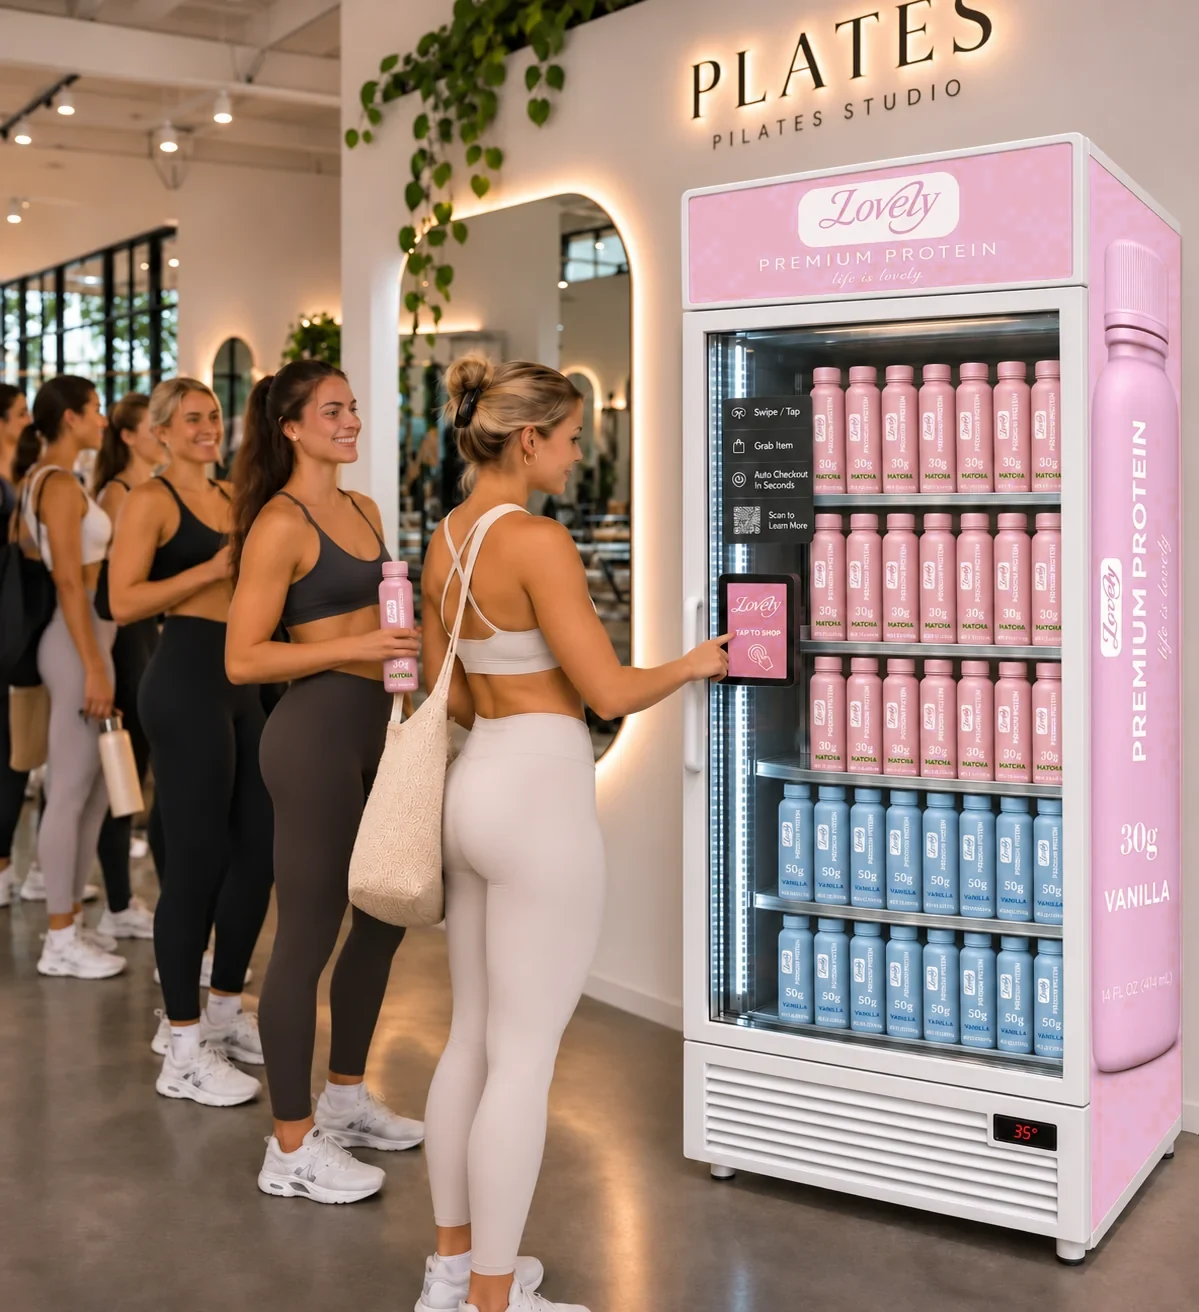
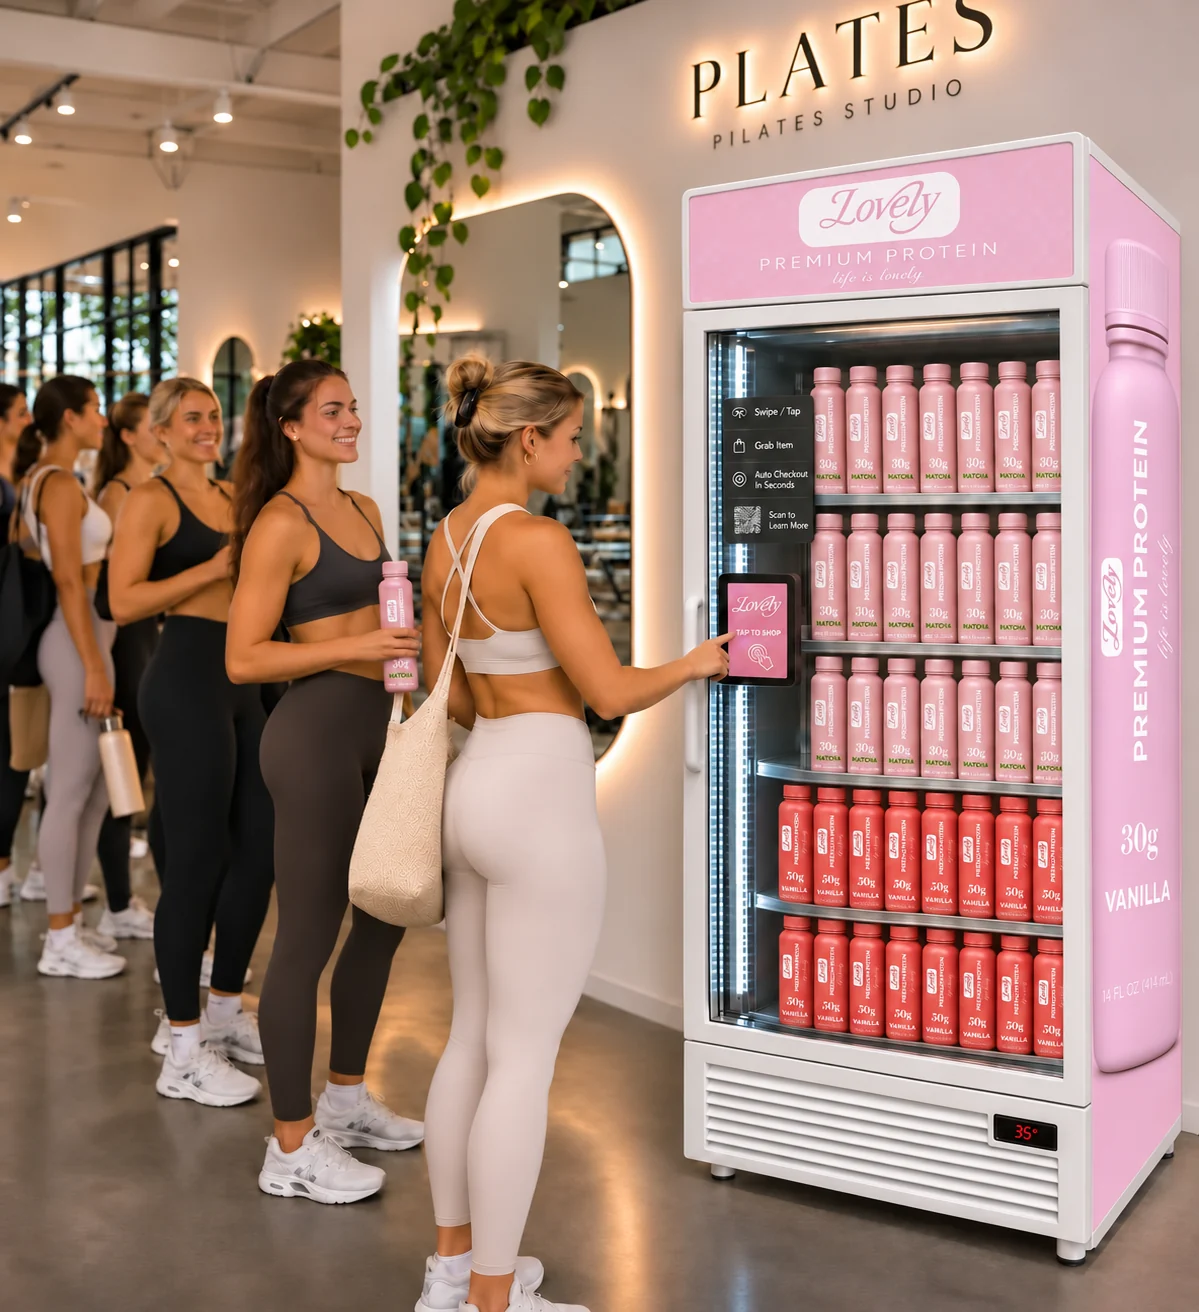
New Pilates studio fridge photo everywhere (coral 50g on the bottom shelves)
Claude-Session: https://claude.ai/code/session_01AzpPYfJ2iNTin5mbwrihoY

diff --git a/index.html b/index.html
@@ -1265,7 +1265,7 @@ footer.site h2, footer.site h3, footer.site b, footer.site h2 .swl span { color:
   <div class="pass-grid">
     <figure class="pass-shot phone"><img src="img/shot_pass.webp" alt="The Lovely Pass on a phone: a member QR code that refreshes every 30 seconds" width="540" height="760" loading="lazy"><figcaption>Your pass</figcaption></figure>
     <figure class="pass-shot phone"><img src="img/shot_map.webp" alt="The Find a Lovely map on a phone, with Lovely pins around Utah County" width="540" height="760" loading="lazy"><figcaption>Every fridge on a map</figcaption></figure>
-    <figure class="pass-shot wide"><img src="img/fridge_studio.webp?v=7" srcset="img/fridge_studio_sm.webp?v=7 720w, img/fridge_studio.webp?v=7 1199w" sizes="(max-width: 900px) 92vw, 40vw" alt="Women line up after Pilates class at a pink and white Lovely Premium Protein fridge stocked with pink 30g Matcha and light-blue 50g Vanilla bottles; one taps the screen to shop" width="1199" height="1312" loading="lazy"><figcaption>Tap, open, grab</figcaption></figure>
+    <figure class="pass-shot wide"><img src="img/fridge_studio.webp?v=8" srcset="img/fridge_studio_sm.webp?v=8 720w, img/fridge_studio.webp?v=8 1199w" sizes="(max-width: 900px) 92vw, 40vw" alt="Women line up after Pilates class at a pink and white Lovely Premium Protein fridge stocked with pink 30g Matcha and light-blue 50g Vanilla bottles; one taps the screen to shop" width="1199" height="1312" loading="lazy"><figcaption>Tap, open, grab</figcaption></figure>
   </div>
   <ol class="psteps"><li><b>1</b><h3>Join <span class="swl"><span>Lovely</span></span> Pass</h3><p>$19 a month, 5 fridge shakes included.</p></li><li><b>2</b><h3>Box at home</h3><p>Skip, swap or pause anytime.</p></li><li><b>3</b><h3>Grab at the fridge</h3><p>Scan, the door opens, grab a shake.</p></li><li><b>4</b><h3>Earn a free <span class="swl"><span>Lovely</span></span></h3><p>50 points is a free <span class="swl"><span>Lovely</span></span>.</p></li></ol>
   <div class="ctas" style="margin-top:22px"><button type="button" class="btn" data-pass>Get my <span class="swl"><span>Lovely</span></span> Pass</button><a class="btn alt" href="faq.html">How it works</a></div>
@@ -1307,7 +1307,7 @@ footer.site h2, footer.site h3, footer.site b, footer.site h2 .swl span { color:
 </div></section>
 <section class="mach-sec" id="machines" aria-labelledby="h-machines"><div class="wrap mach-top">
   <div><span class="soon">Coming after launch</span><h2 id="h-machines" class="h1"><span class="swl"><span>Lovely</span></span> fridges</h2><p class="lead">Smart fridges in studios, gyms and campus rec centers. Tap your <a href="#lovelypass"><span class="swl"><span>Lovely</span></span> Pass</a>, grab a cold shake.</p></div>
-  <img class="mach-photo" src="img/fridge_studio.webp?v=7" srcset="img/fridge_studio_sm.webp?v=7 720w, img/fridge_studio.webp?v=7 1199w" sizes="(max-width: 760px) 92vw, 45vw" alt="A pink and white Lovely Premium Protein fridge in a Pilates studio, with members lined up to tap and grab a shake" width="1199" height="1312" loading="lazy">
+  <img class="mach-photo" src="img/fridge_studio.webp?v=8" srcset="img/fridge_studio_sm.webp?v=8 720w, img/fridge_studio.webp?v=8 1199w" sizes="(max-width: 760px) 92vw, 45vw" alt="A pink and white Lovely Premium Protein fridge in a Pilates studio, with members lined up to tap and grab a shake" width="1199" height="1312" loading="lazy">
 </div></section>
 <section style="padding-top:10px" id="find" class="find-sec"><div class="wrap">
 <link rel="stylesheet" href="vendor/maplibre-gl.css">
@@ -1316,7 +1316,7 @@ footer.site h2, footer.site h3, footer.site b, footer.site h2 .swl span { color:
     <div class="fhead"><h2>Find a <span class="swl"><span>Lovely</span></span></h2><p>Utah County · <span id="fcount">9</span> sample spots</p></div>
     <div class="ffilters filters" role="group" aria-label="Location type"><button type="button" class="press" aria-pressed="true" data-mf="all">All</button><button type="button" class="press" aria-pressed="false" data-mf="studio">Studios</button><button type="button" class="press" aria-pressed="false" data-mf="gym">Gyms</button><button type="button" class="press" aria-pressed="false" data-mf="hotel">Hotels</button><button type="button" class="press" aria-pressed="false" data-mf="campus">Campus</button></div>
     <button type="button" class="btn sm alt flocate" id="flocate2"><svg viewBox="0 0 24 24" width="16" height="16" aria-hidden="true"><circle cx="12" cy="12" r="4" fill="currentColor"/><path d="M12 2v3M12 19v3M2 12h3M19 12h3" stroke="currentColor" stroke-width="2" stroke-linecap="round"/><circle cx="12" cy="12" r="7.5" fill="none" stroke="currentColor" stroke-width="2"/></svg>Sort by distance from me</button>
-    <div class="flist" id="flist"><button type="button" class="mloc" data-id="provo" data-type="studio" data-q="provo 1200 towne centre blvd provo, ut 84601 pilates studio"><img src="img/loc_fridge.webp?v=7" alt="Lovely fridge in Provo" width="112" height="140" loading="lazy"><span class="mt"><b>Provo</b><span class="dist" data-venue="Pilates studio">Pilates studio</span><span class="addr">1200 Towne Centre Blvd<br>Provo, UT 84601</span></span><svg class="chev" viewBox="0 0 24 24" width="18" height="18" aria-hidden="true"><path d="m9 5 7 7-7 7" fill="none" stroke="currentColor" stroke-width="2.4" stroke-linecap="round" stroke-linejoin="round"/></svg></button><button type="button" class="mloc" data-id="orem" data-type="studio" data-q="orem 575 e university pkwy orem, ut 84097 pilates studio"><img src="img/loc_fridge.webp?v=7" alt="Lovely fridge in Orem" width="112" height="140" loading="lazy"><span class="mt"><b>Orem</b><span class="dist" data-venue="Pilates studio">Pilates studio</span><span class="addr">575 E University Pkwy<br>Orem, UT 84097</span></span><svg class="chev" viewBox="0 0 24 24" width="18" height="18" aria-hidden="true"><path d="m9 5 7 7-7 7" fill="none" stroke="currentColor" stroke-width="2.4" stroke-linecap="round" stroke-linejoin="round"/></svg></button><button type="button" class="mloc" data-id="lehi" data-type="gym" data-q="lehi 1230 e main st lehi, ut 84043 gym"><img src="img/loc_fridge.webp?v=7" alt="Lovely fridge in Lehi" width="112" height="140" loading="lazy"><span class="mt"><b>Lehi</b><span class="dist" data-venue="Gym">Gym</span><span class="addr">1230 E Main St<br>Lehi, UT 84043</span></span><svg class="chev" viewBox="0 0 24 24" width="18" height="18" aria-hidden="true"><path d="m9 5 7 7-7 7" fill="none" stroke="currentColor" stroke-width="2.4" stroke-linecap="round" stroke-linejoin="round"/></svg></button><button type="button" class="mloc" data-id="af" data-type="gym" data-q="american fork 51 e 100 n american fork, ut 84003 gym"><img src="img/loc_fridge.webp?v=7" alt="Lovely fridge in American Fork" width="112" height="140" loading="lazy"><span class="mt"><b>American Fork</b><span class="dist" data-venue="Gym">Gym</span><span class="addr">51 E 100 N<br>American Fork, UT 84003</span></span><svg class="chev" viewBox="0 0 24 24" width="18" height="18" aria-hidden="true"><path d="m9 5 7 7-7 7" fill="none" stroke="currentColor" stroke-width="2.4" stroke-linecap="round" stroke-linejoin="round"/></svg></button><button type="button" class="mloc" data-id="pg" data-type="studio" data-q="pleasant grove address coming soon pleasant grove, ut 84062 pilates studio"><img src="img/loc_fridge.webp?v=7" alt="Lovely fridge in Pleasant Grove" width="112" height="140" loading="lazy"><span class="mt"><b>Pleasant Grove</b><span class="dist" data-venue="Pilates studio">Pilates studio</span><span class="addr">Address coming soon<br>Pleasant Grove, UT 84062</span></span><svg class="chev" viewBox="0 0 24 24" width="18" height="18" aria-hidden="true"><path d="m9 5 7 7-7 7" fill="none" stroke="currentColor" stroke-width="2.4" stroke-linecap="round" stroke-linejoin="round"/></svg></button><button type="button" class="mloc" data-id="em" data-type="gym" data-q="eagle mountain address coming soon eagle mountain, ut 84005 gym"><img src="img/loc_fridge.webp?v=7" alt="Lovely fridge in Eagle Mountain" width="112" height="140" loading="lazy"><span class="mt"><b>Eagle Mountain</b><span class="dist" data-venue="Gym">Gym</span><span class="addr">Address coming soon<br>Eagle Mountain, UT 84005</span></span><svg class="chev" viewBox="0 0 24 24" width="18" height="18" aria-hidden="true"><path d="m9 5 7 7-7 7" fill="none" stroke="currentColor" stroke-width="2.4" stroke-linecap="round" stroke-linejoin="round"/></svg></button><button type="button" class="mloc" data-id="ss" data-type="studio" data-q="saratoga springs address coming soon saratoga springs, ut 84045 pilates studio"><img src="img/loc_fridge.webp?v=7" alt="Lovely fridge in Saratoga Springs" width="112" height="140" loading="lazy"><span class="mt"><b>Saratoga Springs</b><span class="dist" data-venue="Pilates studio">Pilates studio</span><span class="addr">Address coming soon<br>Saratoga Springs, UT 84045</span></span><svg class="chev" viewBox="0 0 24 24" width="18" height="18" aria-hidden="true"><path d="m9 5 7 7-7 7" fill="none" stroke="currentColor" stroke-width="2.4" stroke-linecap="round" stroke-linejoin="round"/></svg></button><button type="button" class="mloc" data-id="sv" data-type="campus" data-q="springville address coming soon springville, ut 84663 college rec center"><img src="img/loc_fridge.webp?v=7" alt="Lovely fridge in Springville" width="112" height="140" loading="lazy"><span class="mt"><b>Springville</b><span class="dist" data-venue="College rec center">College rec center</span><span class="addr">Address coming soon<br>Springville, UT 84663</span></span><svg class="chev" viewBox="0 0 24 24" width="18" height="18" aria-hidden="true"><path d="m9 5 7 7-7 7" fill="none" stroke="currentColor" stroke-width="2.4" stroke-linecap="round" stroke-linejoin="round"/></svg></button><button type="button" class="mloc" data-id="sf" data-type="hotel" data-q="spanish fork address coming soon spanish fork, ut 84660 hotel"><img src="img/loc_fridge.webp?v=7" alt="Lovely fridge in Spanish Fork" width="112" height="140" loading="lazy"><span class="mt"><b>Spanish Fork</b><span class="dist" data-venue="Hotel">Hotel</span><span class="addr">Address coming soon<br>Spanish Fork, UT 84660</span></span><svg class="chev" viewBox="0 0 24 24" width="18" height="18" aria-hidden="true"><path d="m9 5 7 7-7 7" fill="none" stroke="currentColor" stroke-width="2.4" stroke-linecap="round" stroke-linejoin="round"/></svg></button></div>
+    <div class="flist" id="flist"><button type="button" class="mloc" data-id="provo" data-type="studio" data-q="provo 1200 towne centre blvd provo, ut 84601 pilates studio"><img src="img/loc_fridge.webp?v=8" alt="Lovely fridge in Provo" width="112" height="140" loading="lazy"><span class="mt"><b>Provo</b><span class="dist" data-venue="Pilates studio">Pilates studio</span><span class="addr">1200 Towne Centre Blvd<br>Provo, UT 84601</span></span><svg class="chev" viewBox="0 0 24 24" width="18" height="18" aria-hidden="true"><path d="m9 5 7 7-7 7" fill="none" stroke="currentColor" stroke-width="2.4" stroke-linecap="round" stroke-linejoin="round"/></svg></button><button type="button" class="mloc" data-id="orem" data-type="studio" data-q="orem 575 e university pkwy orem, ut 84097 pilates studio"><img src="img/loc_fridge.webp?v=8" alt="Lovely fridge in Orem" width="112" height="140" loading="lazy"><span class="mt"><b>Orem</b><span class="dist" data-venue="Pilates studio">Pilates studio</span><span class="addr">575 E University Pkwy<br>Orem, UT 84097</span></span><svg class="chev" viewBox="0 0 24 24" width="18" height="18" aria-hidden="true"><path d="m9 5 7 7-7 7" fill="none" stroke="currentColor" stroke-width="2.4" stroke-linecap="round" stroke-linejoin="round"/></svg></button><button type="button" class="mloc" data-id="lehi" data-type="gym" data-q="lehi 1230 e main st lehi, ut 84043 gym"><img src="img/loc_fridge.webp?v=8" alt="Lovely fridge in Lehi" width="112" height="140" loading="lazy"><span class="mt"><b>Lehi</b><span class="dist" data-venue="Gym">Gym</span><span class="addr">1230 E Main St<br>Lehi, UT 84043</span></span><svg class="chev" viewBox="0 0 24 24" width="18" height="18" aria-hidden="true"><path d="m9 5 7 7-7 7" fill="none" stroke="currentColor" stroke-width="2.4" stroke-linecap="round" stroke-linejoin="round"/></svg></button><button type="button" class="mloc" data-id="af" data-type="gym" data-q="american fork 51 e 100 n american fork, ut 84003 gym"><img src="img/loc_fridge.webp?v=8" alt="Lovely fridge in American Fork" width="112" height="140" loading="lazy"><span class="mt"><b>American Fork</b><span class="dist" data-venue="Gym">Gym</span><span class="addr">51 E 100 N<br>American Fork, UT 84003</span></span><svg class="chev" viewBox="0 0 24 24" width="18" height="18" aria-hidden="true"><path d="m9 5 7 7-7 7" fill="none" stroke="currentColor" stroke-width="2.4" stroke-linecap="round" stroke-linejoin="round"/></svg></button><button type="button" class="mloc" data-id="pg" data-type="studio" data-q="pleasant grove address coming soon pleasant grove, ut 84062 pilates studio"><img src="img/loc_fridge.webp?v=8" alt="Lovely fridge in Pleasant Grove" width="112" height="140" loading="lazy"><span class="mt"><b>Pleasant Grove</b><span class="dist" data-venue="Pilates studio">Pilates studio</span><span class="addr">Address coming soon<br>Pleasant Grove, UT 84062</span></span><svg class="chev" viewBox="0 0 24 24" width="18" height="18" aria-hidden="true"><path d="m9 5 7 7-7 7" fill="none" stroke="currentColor" stroke-width="2.4" stroke-linecap="round" stroke-linejoin="round"/></svg></button><button type="button" class="mloc" data-id="em" data-type="gym" data-q="eagle mountain address coming soon eagle mountain, ut 84005 gym"><img src="img/loc_fridge.webp?v=8" alt="Lovely fridge in Eagle Mountain" width="112" height="140" loading="lazy"><span class="mt"><b>Eagle Mountain</b><span class="dist" data-venue="Gym">Gym</span><span class="addr">Address coming soon<br>Eagle Mountain, UT 84005</span></span><svg class="chev" viewBox="0 0 24 24" width="18" height="18" aria-hidden="true"><path d="m9 5 7 7-7 7" fill="none" stroke="currentColor" stroke-width="2.4" stroke-linecap="round" stroke-linejoin="round"/></svg></button><button type="button" class="mloc" data-id="ss" data-type="studio" data-q="saratoga springs address coming soon saratoga springs, ut 84045 pilates studio"><img src="img/loc_fridge.webp?v=8" alt="Lovely fridge in Saratoga Springs" width="112" height="140" loading="lazy"><span class="mt"><b>Saratoga Springs</b><span class="dist" data-venue="Pilates studio">Pilates studio</span><span class="addr">Address coming soon<br>Saratoga Springs, UT 84045</span></span><svg class="chev" viewBox="0 0 24 24" width="18" height="18" aria-hidden="true"><path d="m9 5 7 7-7 7" fill="none" stroke="currentColor" stroke-width="2.4" stroke-linecap="round" stroke-linejoin="round"/></svg></button><button type="button" class="mloc" data-id="sv" data-type="campus" data-q="springville address coming soon springville, ut 84663 college rec center"><img src="img/loc_fridge.webp?v=8" alt="Lovely fridge in Springville" width="112" height="140" loading="lazy"><span class="mt"><b>Springville</b><span class="dist" data-venue="College rec center">College rec center</span><span class="addr">Address coming soon<br>Springville, UT 84663</span></span><svg class="chev" viewBox="0 0 24 24" width="18" height="18" aria-hidden="true"><path d="m9 5 7 7-7 7" fill="none" stroke="currentColor" stroke-width="2.4" stroke-linecap="round" stroke-linejoin="round"/></svg></button><button type="button" class="mloc" data-id="sf" data-type="hotel" data-q="spanish fork address coming soon spanish fork, ut 84660 hotel"><img src="img/loc_fridge.webp?v=8" alt="Lovely fridge in Spanish Fork" width="112" height="140" loading="lazy"><span class="mt"><b>Spanish Fork</b><span class="dist" data-venue="Hotel">Hotel</span><span class="addr">Address coming soon<br>Spanish Fork, UT 84660</span></span><svg class="chev" viewBox="0 0 24 24" width="18" height="18" aria-hidden="true"><path d="m9 5 7 7-7 7" fill="none" stroke="currentColor" stroke-width="2.4" stroke-linecap="round" stroke-linejoin="round"/></svg></button></div>
     <p class="small fnote">Sample spots. Fridges come after launch.</p>
   </div>
   <div class="fmapwrap">
@@ -1328,7 +1328,7 @@ footer.site h2, footer.site h3, footer.site b, footer.site h2 .swl span { color:
     <p class="fnotiles" hidden>The map couldn't load here. The list still works, and Directions opens Google Maps.</p>
   </div>
 </div>
-<script type="application/json" id="mdata">[{"id": "provo", "city": "Provo", "type": "studio", "address": "1200 Towne Centre Blvd", "csz": "Provo, UT 84601", "lat": 40.2173, "lng": -111.6646, "photo": "img/loc_fridge.webp?v=7", "venue": "Pilates studio"}, {"id": "orem", "city": "Orem", "type": "studio", "address": "575 E University Pkwy", "csz": "Orem, UT 84097", "lat": 40.2767, "lng": -111.6829, "photo": "img/loc_fridge.webp?v=7", "venue": "Pilates studio"}, {"id": "lehi", "city": "Lehi", "type": "gym", "address": "1230 E Main St", "csz": "Lehi, UT 84043", "lat": 40.3887, "lng": -111.8279, "photo": "img/loc_fridge.webp?v=7", "venue": "Gym"}, {"id": "af", "city": "American Fork", "type": "gym", "address": "51 E 100 N", "csz": "American Fork, UT 84003", "lat": 40.3786, "lng": -111.7946, "photo": "img/loc_fridge.webp?v=7", "venue": "Gym"}, {"id": "pg", "city": "Pleasant Grove", "type": "studio", "address": "Address coming soon", "csz": "Pleasant Grove, UT 84062", "lat": 40.364, "lng": -111.738, "photo": "img/loc_fridge.webp?v=7", "venue": "Pilates studio"}, {"id": "em", "city": "Eagle Mountain", "type": "gym", "address": "Address coming soon", "csz": "Eagle Mountain, UT 84005", "lat": 40.3141, "lng": -112.0069, "photo": "img/loc_fridge.webp?v=7", "venue": "Gym"}, {"id": "ss", "city": "Saratoga Springs", "type": "studio", "address": "Address coming soon", "csz": "Saratoga Springs, UT 84045", "lat": 40.3492, "lng": -111.9047, "photo": "img/loc_fridge.webp?v=7", "venue": "Pilates studio"}, {"id": "sv", "city": "Springville", "type": "campus", "address": "Address coming soon", "csz": "Springville, UT 84663", "lat": 40.1652, "lng": -111.6107, "photo": "img/loc_fridge.webp?v=7", "venue": "College rec center"}, {"id": "sf", "city": "Spanish Fork", "type": "hotel", "address": "Address coming soon", "csz": "Spanish Fork, UT 84660", "lat": 40.115, "lng": -111.655, "photo": "img/loc_fridge.webp?v=7", "venue": "Hotel"}]</script>
+<script type="application/json" id="mdata">[{"id": "provo", "city": "Provo", "type": "studio", "address": "1200 Towne Centre Blvd", "csz": "Provo, UT 84601", "lat": 40.2173, "lng": -111.6646, "photo": "img/loc_fridge.webp?v=8", "venue": "Pilates studio"}, {"id": "orem", "city": "Orem", "type": "studio", "address": "575 E University Pkwy", "csz": "Orem, UT 84097", "lat": 40.2767, "lng": -111.6829, "photo": "img/loc_fridge.webp?v=8", "venue": "Pilates studio"}, {"id": "lehi", "city": "Lehi", "type": "gym", "address": "1230 E Main St", "csz": "Lehi, UT 84043", "lat": 40.3887, "lng": -111.8279, "photo": "img/loc_fridge.webp?v=8", "venue": "Gym"}, {"id": "af", "city": "American Fork", "type": "gym", "address": "51 E 100 N", "csz": "American Fork, UT 84003", "lat": 40.3786, "lng": -111.7946, "photo": "img/loc_fridge.webp?v=8", "venue": "Gym"}, {"id": "pg", "city": "Pleasant Grove", "type": "studio", "address": "Address coming soon", "csz": "Pleasant Grove, UT 84062", "lat": 40.364, "lng": -111.738, "photo": "img/loc_fridge.webp?v=8", "venue": "Pilates studio"}, {"id": "em", "city": "Eagle Mountain", "type": "gym", "address": "Address coming soon", "csz": "Eagle Mountain, UT 84005", "lat": 40.3141, "lng": -112.0069, "photo": "img/loc_fridge.webp?v=8", "venue": "Gym"}, {"id": "ss", "city": "Saratoga Springs", "type": "studio", "address": "Address coming soon", "csz": "Saratoga Springs, UT 84045", "lat": 40.3492, "lng": -111.9047, "photo": "img/loc_fridge.webp?v=8", "venue": "Pilates studio"}, {"id": "sv", "city": "Springville", "type": "campus", "address": "Address coming soon", "csz": "Springville, UT 84663", "lat": 40.1652, "lng": -111.6107, "photo": "img/loc_fridge.webp?v=8", "venue": "College rec center"}, {"id": "sf", "city": "Spanish Fork", "type": "hotel", "address": "Address coming soon", "csz": "Spanish Fork, UT 84660", "lat": 40.115, "lng": -111.655, "photo": "img/loc_fridge.webp?v=8", "venue": "Hotel"}]</script>
 
 </div></section>
 <section id="host" style="padding-top:0"><div class="wrap"><div class="host">
